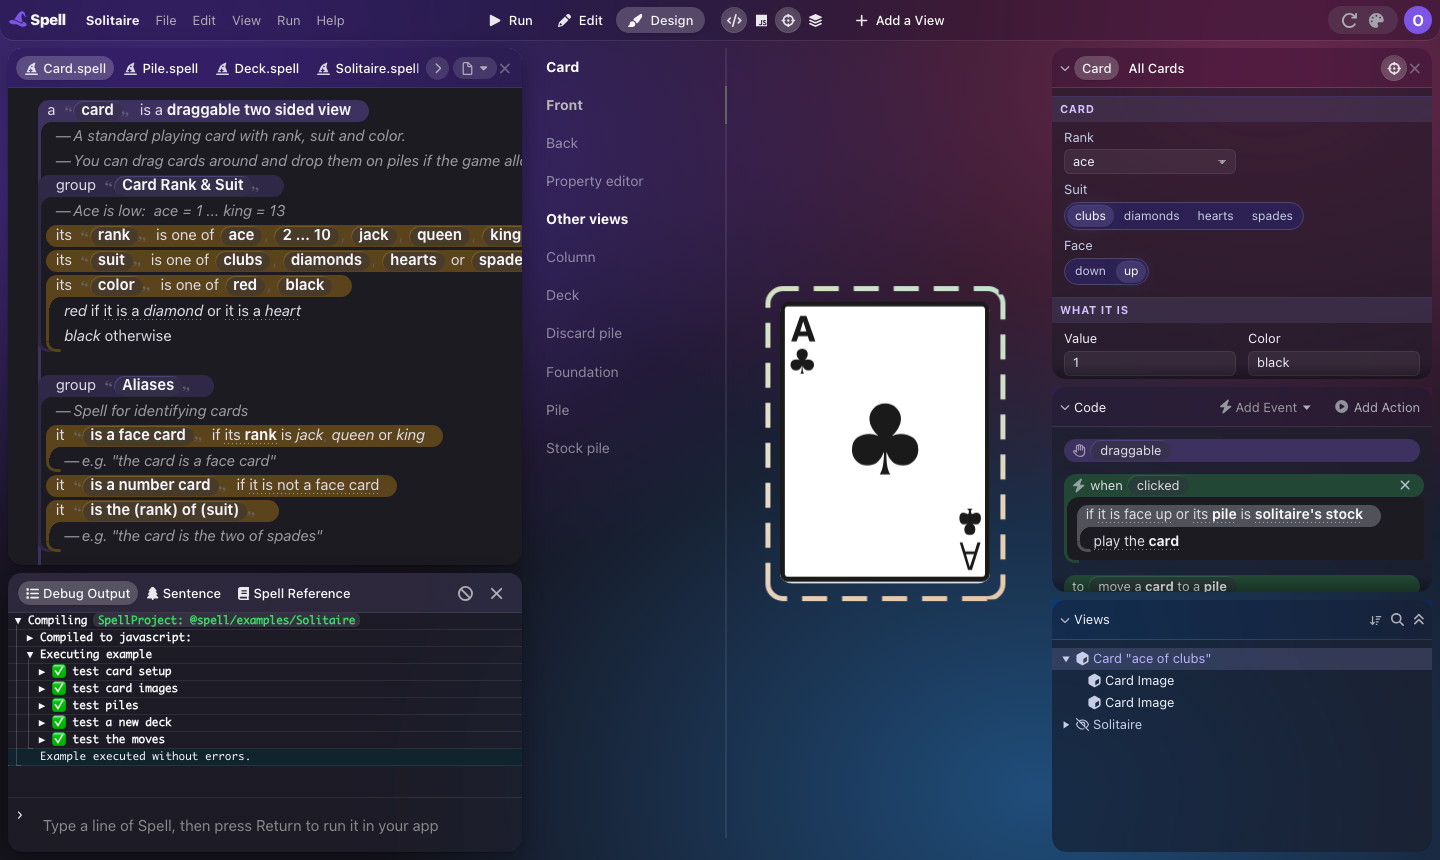
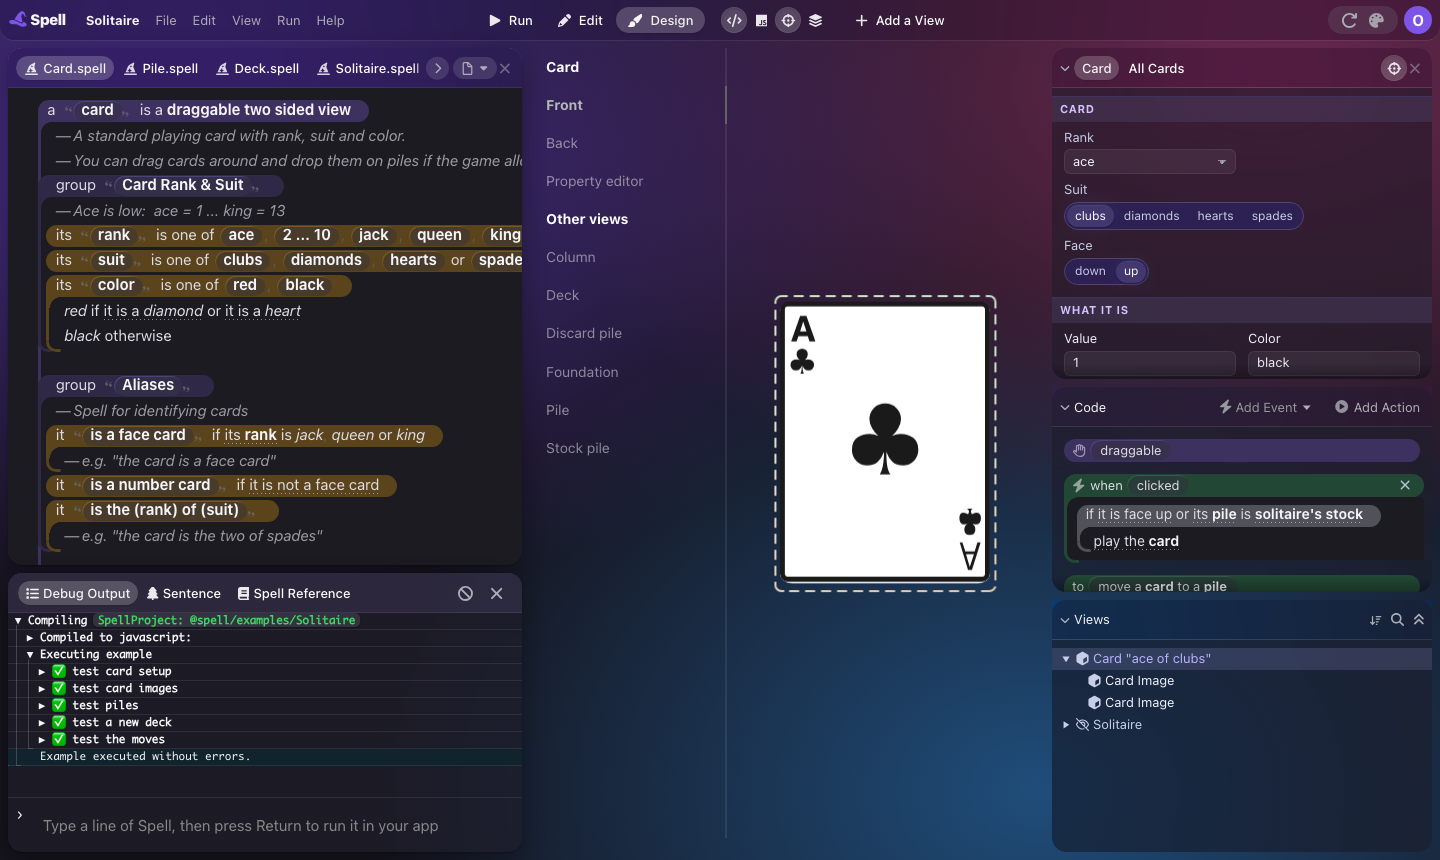
auto: epic editor
Turn-end: editor
Session: 0564c99a-7def-4dca-958b-d3bc5849ad11

Changed region(s): [[0.5312, 0.3326, 0.7188, 0.7256]]

diff --git a/epics/editor/editor.plan.html b/epics/editor/editor.plan.html
@@ -25,7 +25,7 @@
             saga="app"
             away-read="2026-11-03T17:49-05:00"
             away-seen="todo=2026-11-13T22:23-05:00 i50=2026-11-13T23:39-05:00 i51=2026-11-13T23:39-05:00 i52=2026-11-13T23:39-05:00 i53=2026-11-13T23:39-05:00 i54=2026-11-13T23:39-05:00 i55=2026-11-13T23:39-05:00 i59=2026-11-13T23:39-05:00 i60=2026-11-13T23:39-05:00 i61=2026-11-13T23:39-05:00 i62=2026-11-13T23:39-05:00 m21=2026-11-13T23:39-05:00 m22=2026-11-13T23:39-05:00 m23=2026-11-13T23:39-05:00"
-            recent-since="2026-11-19T20:00:09-05:00"
+            recent-since="2026-11-19T20:30:59-05:00"
             repo="https://github.com/spell-app/spell"
           >
             <epic-section
@@ -4130,12 +4130,12 @@
                 id="j242"
                 status="open"
                 state="open"
-                changed="2026-11-19T20:40:16-05:00"
+                changed="2026-11-19T21:01:05-05:00"
                 phase="37"
                 calm
                 source="parts/j242.html"
                 ><span slot="title"
-                  >P37: Design scales the drawing up with a CSS scale, so the selection ring scales too
+                  >P37: Design scales the drawing up with a CSS scale, the selection's ants kept thin
                   <epic-update phase="37"></epic-update></span></epic-item
               ><epic-item
                 id="j243"

diff --git a/epics/editor/parts/j242.html b/epics/editor/parts/j242.html
@@ -1,5 +1,14 @@
 <!-- plan-doc part:  #j242's details in editor.plan.html, loaded when it opens (templates/epics/plan-doc.md, "Parts") -->
 <p>
-  With CSS zoom the ring round a face-down (turned) card was drawn half size in its corner. With a scale it's in place,
-  but its dashes are drawn as large as the card is scaled.
+  With CSS zoom the ants round a face-down (turned) card were drawn half size in its corner. With a scale they're in
+  place; the Inspector now takes a scale out of a turned part's box into its size, so the ants' dashes stay thin, and
+  never rings a part drawn scaled up.
 </p>
+<epic-original
+  ><epic-version
+    ><p>
+      With CSS zoom the ring round a face-down (turned) card was drawn half size in its corner. With a scale it's in
+      place, but its dashes are drawn as large as the card is scaled.
+    </p></epic-version
+  ></epic-original
+>

diff --git a/epics/editor/parts/log.html b/epics/editor/parts/log.html
@@ -5833,3 +5833,8 @@
   and from T122.</epic-event
 >
 <epic-event at="2026-11-19T20:55-05:00">Agent editor-commands done: took 8m</epic-event>
+<epic-event at="2026-11-19T21:00-05:00"
+  >J242 renamed: "P37: Design scales the drawing up with a CSS scale, so the selection ring scales too" -&gt; "P37:
+  Design scales the drawing up with a CSS scale, the selection's ants kept thin"</epic-event
+>
+<epic-event at="2026-11-19T21:01-05:00">J242 details rewritten</epic-event>
